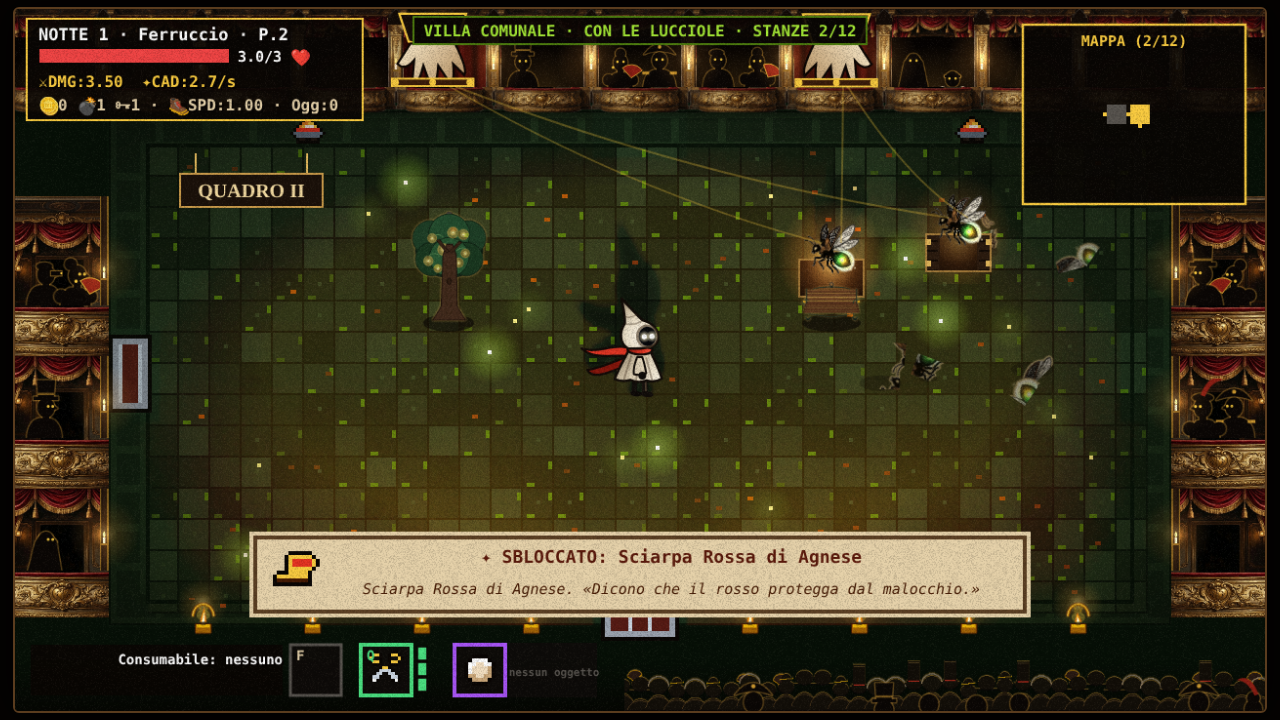
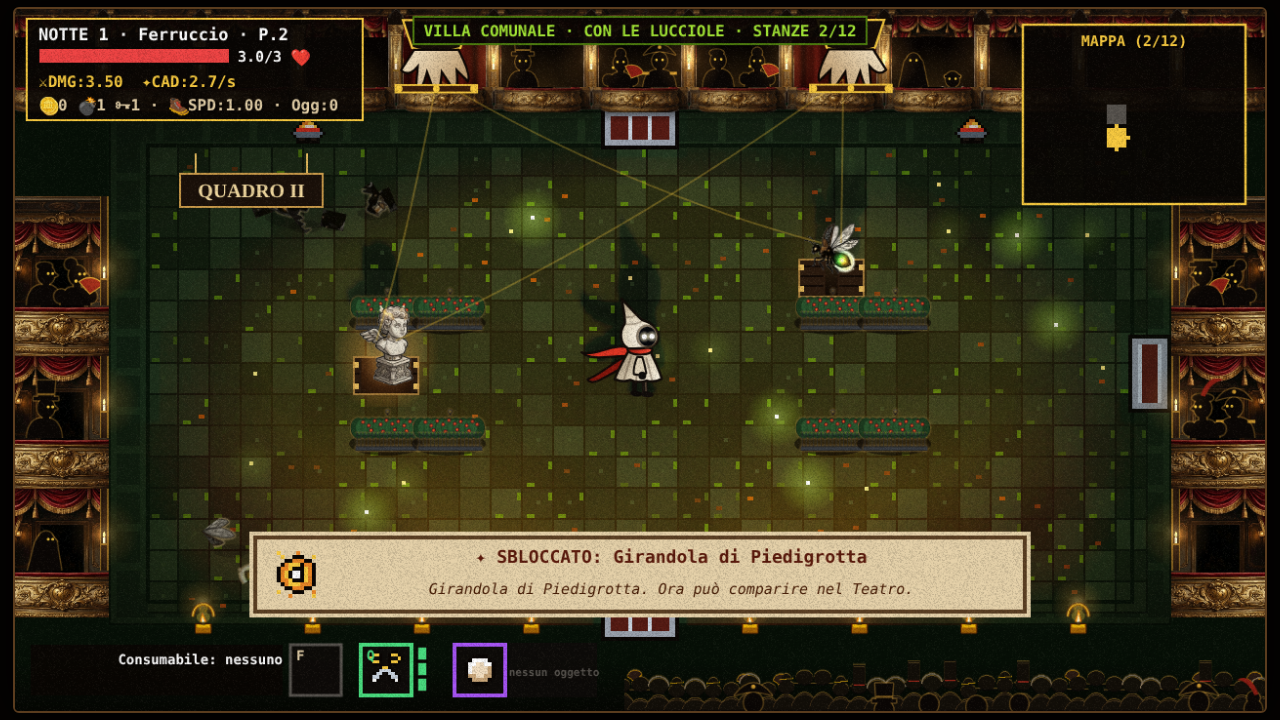
feat(teatro): telo dipinto che cala e risale nel cambio di scena, sagome degli arredi col contorno, disposizione del secondo quadro salvata (d5)
Claude-Session: https://claude.ai/code/session_01F5x6kDAQ4qaiYDiFx9jQb5

diff --git a/gioco/teatro/d5-cambio-scena.js b/gioco/teatro/d5-cambio-scena.js
@@ -27,8 +27,11 @@ const QUADRI_D5 = Object.freeze({
   profonditaMin: 2,            // stanze ad almeno 2 porte dall'ingresso
   nemiciMin: 2,
   pausaPrimaMs: 450,           // dall'ultimo nemico caduto al colpo di grancassa
-  cambioMs: 1500,              // durata del cambio dei macchinisti
-  fasi: Object.freeze({ buio: 0.18, giu: 0.5, su: 0.82 }), // frazioni del cambio: luci giù, arredi giù, arredi su
+  cambioMs: 1700,              // durata del cambio dei macchinisti
+  // frazioni del cambio: luci giù e arredi che scendono (buio → scesi), scambio a telo calato (giu),
+  // arredi nuovi che salgono mentre il telo risale (salita → su)
+  fasi: Object.freeze({ buio: 0.08, scesi: 0.33, giu: 0.42, salita: 0.62, su: 0.88 }),
+  telo: Object.freeze({ calaFine: 0.36, risaleInizio: 0.6, risaleFine: 0.95, margine: 22 }),
   buioMax: 0.72,
   margineGiocatore: 14,        // distanza minima di Ferruccio da un arredo che sale
   ascesaSfasaMs: 170,          // la seconda compagnia sale a una botola per volta
@@ -210,19 +213,32 @@ function avviaCambioD5(st) {
   const q = st.quadriD5;
   q.pausa = ticksDaMs(QUADRI_D5.pausaPrimaMs);
   q.durata = Math.max(1, ticksDaMs(QUADRI_D5.cambioMs));
-  q.colpo = q.giu = q.su = q.montato = false;
+  q.colpo = q.giu = q.su = q.montato = q.salitaSuono = false;
   statoRun.proiettili = []; statoRun.proiettiliNemici = [];
+}
+/**
+ * Variante b7 del secondo quadro: quella scelta alla generazione (in memoria o, dopo un caricamento, ritrovata
+ * dagli id salvati in `st.quadriD5.disp2`); solo se manca del tutto se ne estrae una nuova e la si salva.
+ */
+function varianteSecondoQuadroD5(st, piano) {
+  const q = st.quadriD5;
+  let v = variantiD5.get(st);
+  if (!v && q.disp2 && typeof variantiB7 === 'function') {
+    v = variantiB7().find((x) => x.id === q.disp2.variante && x.disp.id === q.disp2.id) || null;
+  }
+  if (!v) v = scegliVarianteB7(piano);
+  if (v) { variantiD5.set(st, v); q.disp2 = { id: v.disp.id, variante: v.id, nome: v.disp.nome }; }
+  return v;
 }
 function fuoriDagliArrediD5(o, x, y, margine) { return Math.hypot(x - o.x, y - o.y) >= (o.r || 0) + margine; }
 /** Prepara il secondo quadro su una stanza d'appoggio: arredi, suolo, comparse, alcova; sposta Ferruccio e gli oggetti. */
 function montaSecondoQuadroD5(st) {
   const q = st.quadriD5, piano = q.piano || statoRun.piano;
-  const v2 = variantiD5.get(st) || scegliVarianteB7(piano);
+  const v2 = varianteSecondoQuadroD5(st, piano);
   const temp = { id: st.id, tipo: 'normale', porte: st.porte, muroSegreto: st.muroSegreto, nemici: [], ostacoli: [], oggettiATerra: [] };
   if (v2) applicaDisposizioneB7(temp, v2, piano);
   q.nuovi = temp.ostacoli || [];
   q.suolo2 = temp.suoloB7 || []; q.comparse2 = temp.comparseB7 || []; q.fragili2 = temp.fragiliB7 || []; q.premi2 = temp.premiB7 || [];
-  if (v2) q.disp2 = { id: v2.disp.id, variante: v2.id, nome: v2.disp.nome };
   const M = QUADRI_D5.margineGiocatore;
   if (!q.nuovi.every((o) => fuoriDagliArrediD5(o, player.x, player.y, M + 9))) {
     const p = puntoValidoB7(temp, player.x, player.y, [], []);
@@ -257,7 +273,8 @@ function passoCambioD5(st) {
     st.ostacoli = []; st.suoloB7 = []; st.fragiliB7 = []; st.premiB7 = [];
     suonoD5('argano');
   }
-  if (u >= F.giu && !q.montato) { montaSecondoQuadroD5(st); suonoD5('argano'); }
+  if (u >= F.giu && !q.montato) montaSecondoQuadroD5(st); // a telo calato: nessuno vede lo scambio
+  if (u >= F.salita && !q.salitaSuono) { q.salitaSuono = true; suonoD5('argano'); }
   if (u >= F.su && !q.su) {
     q.su = true;
     st.ostacoli = q.nuovi; st.suoloB7 = q.suolo2; st.comparseB7 = q.comparse2; st.fragiliB7 = q.fragili2; st.premiB7 = q.premi2;
@@ -430,7 +447,7 @@ function sagomaArredoD5(o, dy) {
   ctx.save();
   ctx.beginPath(); ctx.rect(o.x - w, 0, w * 2, base + 1); ctx.clip();
   ctx.translate(0, dy);
-  ctx.fillStyle = '#120b06'; ctx.strokeStyle = BOTOLE_D5.colori.contorno; ctx.lineWidth = 1.2;
+  ctx.fillStyle = '#1a110a'; ctx.strokeStyle = BOTOLE_D5.colori.contorno; ctx.lineWidth = 1.6;
   if (o.tipo === 'braciere') {
     ctx.beginPath(); ctx.moveTo(o.x - w / 2, base - h * 0.55); ctx.lineTo(o.x + w / 2, base - h * 0.55);
     ctx.lineTo(o.x + w * 0.2, base - h * 0.25); ctx.lineTo(o.x + w * 0.12, base); ctx.lineTo(o.x - w * 0.12, base);
@@ -451,21 +468,56 @@ function buioCambioD5(u) {
   return M * Math.max(0, 1 - (u - F.su) / (1 - F.su));
 }
 
-/** Telo dipinto del fondale (sagome della scena) all'altezza `dy` (negativo = issato). */
-function disegnaFondaleD5(id, dy) {
-  const x1 = ARENA.x1, x2 = ARENA.x2, H = QUADRI_D5.altezzaFondale, y0 = ARENA.y1 - H + dy;
+/**
+ * Telo dipinto che cala dall'alto su tutta l'area di gioco, appeso a due corde, con la stanga in fondo e il motivo
+ * del quartiere a ombre. `yb` = quota (coordinate 640x360) del bordo basso del telo.
+ */
+function disegnaTeloD5(yb, tk) {
+  if (yb <= 0) return;
+  const M = QUADRI_D5.telo.margine, x1 = ARENA.x1 - M, x2 = ARENA.x2 + M, w = x2 - x1, C = BOTOLE_D5.colori;
+  const quart = typeof quartiereB7 === 'function' ? quartiereB7(statoRun.piano) : 1;
+  const ondeggia = Math.sin(tk * 0.09) * 1.5;
   ctx.save();
-  ctx.fillStyle = '#1a100a'; ctx.fillRect(x1, y0, x2 - x1, H);
-  ctx.strokeStyle = BOTOLE_D5.colori.contorno; ctx.lineWidth = 1; ctx.strokeRect(x1 + 0.5, y0 + 0.5, x2 - x1 - 1, H - 1);
-  ctx.fillStyle = '#060403';
-  let seme = 0; for (const ch of String(id || '')) seme = (seme * 31 + ch.charCodeAt(0)) % 997;
-  if (seme % 2) { // il Vesuvio col pennacchio
-    ctx.beginPath(); ctx.moveTo(x1 + 30, y0 + H); ctx.lineTo((x1 + x2) / 2 - 20, y0 + 14); ctx.lineTo((x1 + x2) / 2 + 20, y0 + 14); ctx.lineTo(x2 - 30, y0 + H); ctx.fill();
-  } else { // archi e cupole
-    for (let x = x1 + 20; x < x2 - 20; x += 54) { ctx.beginPath(); ctx.arc(x + 20, y0 + H, 20, Math.PI, 0); ctx.rect(x, y0 + H - 4, 40, 4); ctx.fill(); }
+  ctx.fillStyle = '#e2b85c'; // le due corde
+  ctx.fillRect(x1 + 26, 0, 1, yb); ctx.fillRect(x2 - 27, 0, 1, yb);
+  ctx.fillStyle = '#1d130b'; ctx.fillRect(x1, 0, w, yb);
+  ctx.fillStyle = 'rgba(0,0,0,0.28)'; // pieghe della tela
+  for (let x = x1 + 18; x < x2; x += 38) ctx.fillRect(x + ondeggia, 0, 9, yb);
+  ctx.beginPath(); ctx.rect(x1, 0, w, yb); ctx.clip();
+  const cy = yb - 70, cx = (x1 + x2) / 2; // il dipinto viaggia col telo
+  ctx.fillStyle = '#080504'; ctx.strokeStyle = C.contorno; ctx.lineWidth = 1.2;
+  ctx.beginPath();
+  if (quart === 1) { // il Vesuvio col pennacchio, sopra il golfo
+    ctx.moveTo(x1 + 20, cy + 50); ctx.lineTo(cx - 34, cy - 40); ctx.lineTo(cx - 8, cy - 32); ctx.lineTo(cx + 22, cy - 44); ctx.lineTo(x2 - 20, cy + 50); ctx.closePath();
+  } else if (quart === 2) { // gli alberi della Villa
+    for (let x = x1 + 40; x < x2 - 30; x += 70) { ctx.moveTo(x + 18, cy + 50); ctx.arc(x + 18, cy - 4, 26, 0, Math.PI * 2); ctx.rect(x + 14, cy + 10, 8, 40); }
+  } else if (quart === 3) { // cupole e campanili
+    for (let x = x1 + 30; x < x2 - 40; x += 90) { ctx.moveTo(x + 60, cy + 50); ctx.arc(x + 30, cy + 10, 30, Math.PI, 0); ctx.rect(x, cy + 10, 60, 40); ctx.rect(x + 70, cy - 30, 12, 80); }
+  } else { // il colonnato della Reggia
+    ctx.rect(x1 + 20, cy - 34, w - 40, 10);
+    for (let x = x1 + 30; x < x2 - 30; x += 34) ctx.rect(x, cy - 24, 10, 74);
   }
-  ctx.fillStyle = '#3a2410'; ctx.fillRect(x1 - 6, y0 - 3, x2 - x1 + 12, 4); // la stanga
+  ctx.fill(); ctx.stroke();
+  ctx.fillStyle = 'rgba(226,184,92,0.5)'; ctx.font = 'bold 13px Georgia, serif'; ctx.textAlign = 'center'; ctx.textBaseline = 'middle';
+  ctx.fillText('~ cambio di scena ~', cx, yb - 12);
   ctx.restore();
+  ctx.save();
+  ctx.strokeStyle = C.contorno; ctx.lineWidth = 1; ctx.strokeRect(x1 + 0.5, -1, w - 1, yb + 1);
+  ctx.fillStyle = '#4a2e14'; ctx.fillRect(x1 - 6, yb - 2, w + 12, 6); // la stanga
+  ctx.fillStyle = '#e2b85c'; ctx.fillRect(x1 - 6, yb - 2, 4, 6); ctx.fillRect(x2 + 2, yb - 2, 4, 6);
+  ctx.fillStyle = 'rgba(0,0,0,0.35)'; ctx.fillRect(x1, yb + 4, w, 6); // ombra sul palco
+  ctx.restore();
+}
+
+/** Quota del bordo basso del telo al tempo `u` del cambio. */
+function quotaTeloD5(u) {
+  const T = QUADRI_D5.telo, giu = ARENA.y2 + 16;
+  const liscio = (x) => x * x * (3 - 2 * x);
+  if (u <= 0) return 0;
+  if (u < T.calaFine) return giu * liscio(u / T.calaFine);
+  if (u < T.risaleInizio) return giu;
+  if (u < T.risaleFine) return giu * (1 - liscio((u - T.risaleInizio) / (T.risaleFine - T.risaleInizio)));
+  return 0;
 }
 
 /** Due fondali arrotolati sotto il cielo del palco: il segno onesto di una stanza in due quadri. */
@@ -513,51 +565,49 @@ function disegnaScenaD5(tk, st) {
   else if (q.fase === 'secondo' || q.fase === 'finito') disegnaCartelloD5('QUADRO II', q.cartello > 0);
 }
 
-/** Il cambio di scena, disegnato a fine frame sopra scena, figure e luci (sotto resta solo l'HUD ridisegnato). */
+/**
+ * Il cambio di scena: buio, botole e sagome degli arredi, telo che cala e risale, Ferruccio davanti nel suo occhio
+ * di bue. Disegnato appena prima dell'HUD: sopra pavimento, arredi e nemici, sotto HUD e banner.
+ */
 function disegnaCambioD5(tk, st) {
-  const q = st.quadriD5;
-  const F = QUADRI_D5.fasi, u = (q.t - (q.pausa || 0)) / (q.durata || 1), H = QUADRI_D5.altezzaFondale + 30;
+  const q = st.quadriD5, F = QUADRI_D5.fasi, u = (q.t - (q.pausa || 0)) / (q.durata || 1);
   ctx.save();
   ctx.fillStyle = `rgba(0,0,0,${buioCambioD5(u).toFixed(3)})`;
-  ctx.fillRect(0, 0, ARENA.x2 + ARENA.x1, ARENA.y2 + 24);
-  const P = player, lu = buioCambioD5(u) / QUADRI_D5.buioMax; // un occhio di bue resta su Ferruccio
-  ctx.globalAlpha = 0.55 * lu; ctx.globalCompositeOperation = 'lighter';
-  ctx.drawImage(alonaD5(), P.x - 40, P.y - 56, 80, 80);
+  ctx.fillRect(0, 0, W, H);
   ctx.restore();
   if (u >= F.buio && u < F.giu) {
-    const s = (u - F.buio) / (F.giu - F.buio);
-    disegnaFondaleD5(st.disposizioneB7 && st.disposizioneB7.id, -s * H);
+    const s = Math.min(1, (u - F.buio) / (F.scesi - F.buio));
     for (const o of q.vecchi || []) {
       disegnaBotolaD5(o.x, o.y + (o.h || 20) * 0.3, (o.w || 24) + 10, 14, Math.min(1, s * 3), 0, tk);
-      sagomaArredoD5(o, s * ((o.h || 24) + 34));
+      if (s < 1) sagomaArredoD5(o, s * ((o.h || 24) + 34));
     }
-  } else if (u >= F.giu && u < 1) {
-    const s = Math.min(1, (u - F.giu) / (F.su - F.giu));
-    disegnaFondaleD5(q.disp2 && q.disp2.id, -(1 - s) * H);
+  } else if (u >= F.salita && u < 1) {
+    const s = Math.min(1, (u - F.salita) / (F.su - F.salita));
     const chiusura = u < F.su ? 1 : Math.max(0, 1 - (u - F.su) / (1 - F.su));
     for (const o of q.nuovi || []) {
       disegnaBotolaD5(o.x, o.y + (o.h || 20) * 0.3, (o.w || 24) + 10, 14, chiusura, 0, tk);
       if (u < F.su) sagomaArredoD5(o, (1 - s) * ((o.h || 24) + 34));
     }
-  } else if (u < F.buio) {
-    disegnaRotoliD5();
   }
+  disegnaTeloD5(quotaTeloD5(u), tk);
+  const P = player, lu = buioCambioD5(u) / QUADRI_D5.buioMax;
+  ctx.save();
+  ctx.globalAlpha = 0.6 * lu; ctx.globalCompositeOperation = 'lighter';
+  ctx.drawImage(alonaD5(), P.x - 44, P.y - 60, 88, 88);
+  ctx.restore();
+  try { // Ferruccio resta davanti al telo
+    disegnaFerruccioPittorico(ctx, P.x, P.y, { scale: 1.0, scalaA2: P.scalaA2, flipX: P.flipX, tick: tk, moving: P.moving, shootAnim: false, pickup: false, flash: false });
+  } catch (_) { /* il disegno non ferma la scena */ }
   disegnaCartelloD5('CAMBIO DI SCENA', false);
 }
 
-const disegnaFrameBaseD5 = disegnaFrame;
-disegnaFrame = function disegnaFrameD5(...a) {
-  const r = disegnaFrameBaseD5.apply(this, a);
+const disegnaHUDPixelArtBaseD5 = disegnaHUDPixelArt;
+disegnaHUDPixelArt = function disegnaHUDPixelArtD5(st, ...resto) {
   try {
-    const st = statoRun.stanzaCorrente;
-    if (st && st.quadriD5 && st.quadriD5.fase === 'cambio' && statoRun.fase === 'in_gioco') {
-      ctx.save();
-      ctx.setTransform(scalaBase, 0, 0, scalaBase, 0, 0);
-      disegnaCambioD5(tick, st);
-      ctx.restore();
-    }
+    const sc = statoRun.stanzaCorrente;
+    if (sc && sc.quadriD5 && sc.quadriD5.fase === 'cambio' && statoRun.fase === 'in_gioco') disegnaCambioD5(tick, sc);
   } catch (err) { console.error('[d5] cambio', err); }
-  return r;
+  return disegnaHUDPixelArtBaseD5.call(this, st, ...resto);
 };
 
 const disegnaStanzaPixelArtBaseD5 = disegnaStanzaPixelArt;

diff --git a/tools/qa-teatro-cambio-scena.js b/tools/qa-teatro-cambio-scena.js
@@ -78,12 +78,15 @@ fs.mkdirSync(path.dirname(foto('x')), { recursive: true });
     return { fatto, fase: st.quadriD5 && st.quadriD5.fase, nemici: st.nemici.length, arredi: window.__qa.arredi() };
   });
   ok('stanza forzata in due quadri, fase «primo»', ing.fatto && ing.fase === 'primo', ing);
+  ing.disp2 = await p.evaluate(() => JSON.parse(JSON.stringify(window.__qa.st.quadriD5.disp2)));
+  ok('la disposizione del secondo quadro è nello stato (JSON) della stanza', ing.disp2 && ing.disp2.id && ing.disp2.variante !== undefined, ing.disp2);
   await p.waitForTimeout(500);
   await p.screenshot({ path: foto('1-quadro-primo') });
   const avvio = await p.evaluate(() => {
     const I = window.__teatro.interni, st = window.__qa.st, R = I.statoRun;
     for (const n of st.nemici) n.hp = 0;
     verificaStanzaPulita();
+    if (st.quadriD5.fase === 'cambio') st.quadriD5.durata *= 6; // al rallentatore: le foto cadono dove devono
     // Ferruccio in mezzo alla scena: dove salirà un arredo deve essere spostato
     I.player.x = 320; I.player.y = 188;
     R.proiettiliNemici.push({ x: 0, y: 0, vx: 0, vy: 0 });
@@ -91,9 +94,12 @@ fs.mkdirSync(path.dirname(foto('x')), { recursive: true });
   });
   ok('primo quadro finito: porte chiuse (stanza non pulita), parte il cambio', !avvio.pulita && avvio.fase === 'cambio', avvio);
   const campioni = [];
-  for (const [i, ms] of [[1, 380], [2, 400], [3, 350], [4, 350], [5, 300]].entries()) {
-    await p.waitForTimeout(ms[1]);
-    await p.screenshot({ path: foto(`2-cambio-${ms[0]}`) });
+  for (const [nome, frazione] of [['1-quarto', 0.25], ['2-meta', 0.5], ['3-tre-quarti', 0.75], ['4-fine', 0.97]]) {
+    await p.waitForFunction((f) => {
+      const q = window.__qa.st.quadriD5;
+      return q.fase !== 'cambio' || (q.t - q.pausa) / q.durata >= f;
+    }, frazione, { timeout: 5000 });
+    await p.screenshot({ path: foto(`2-cambio-${nome}`) });
     campioni.push(await p.evaluate(() => {
       const I = window.__teatro.interni, R = I.statoRun, st = window.__qa.st;
       const hp = R.hpHalf; R.graziaIngressoC = 0;
@@ -102,12 +108,12 @@ fs.mkdirSync(path.dirname(foto('x')), { recursive: true });
       R.graziaIngressoC = 1e7;
       return { fase: st.quadriD5.fase, dentro: window.__qa.dentro(), pnem: R.proiettiliNemici.length, ricevuto, pulita: st.pulita };
     }));
-    void i;
   }
   ok('durante il cambio nessun danno e nessun proiettile nemico', campioni.every((c) => c.ricevuto !== true && (c.fase !== 'cambio' || c.pnem === 0)), campioni);
   ok('Ferruccio mai dentro un arredo', campioni.every((c) => !c.dentro), campioni);
   ok('porte chiuse per tutto il cambio', campioni.every((c) => !c.pulita), campioni);
-  await p.waitForTimeout(2200);
+  await p.waitForFunction(() => window.__qa.st.quadriD5.fase === 'secondo' && !window.__teatro.interni.d5.inAttesaBotole(window.__qa.st), null, { timeout: 15000 });
+  await p.waitForTimeout(300);
   await p.screenshot({ path: foto('3-quadro-secondo') });
   const sec = await p.evaluate(() => {
     const st = window.__qa.st;
@@ -115,6 +121,8 @@ fs.mkdirSync(path.dirname(foto('x')), { recursive: true });
   });
   ok('secondo quadro: entra la seconda compagnia', sec.fase === 'secondo' && sec.nemici > 0 && !sec.attesa && !sec.pulita, sec);
   ok('gli arredi sono cambiati', sec.arredi !== ing.arredi, { prima: ing.arredi, dopo: sec.arredi });
+  const d2 = await p.evaluate(() => window.__qa.st.disposizioneB7 && window.__qa.st.disposizioneB7.id);
+  ok('il secondo quadro usa la disposizione salvata', d2 === ing.disp2.id, { d2, salvata: ing.disp2 });
   ok('Ferruccio fuori dagli arredi nuovi', !sec.dentro);
   const fine = await p.evaluate(() => {
     const st = window.__qa.st, prima = st.oggettiATerra.length;
@@ -163,16 +171,17 @@ fs.mkdirSync(path.dirname(foto('x')), { recursive: true });
     return { fatto, prima, dopo: st.nemici.length, attesa: I.d5.inAttesaBotole(st), botole: st.botoleD5.lista.length };
   });
   ok('botole: i nemici aspettano sotto il palco', bot.fatto && bot.dopo < bot.prima && bot.attesa, bot);
-  await p.waitForTimeout(900);
+  const stato = (x) => p.waitForFunction((x) => window.__qa.sb.botoleD5.lista.some((b) => b.stato === x), x, { timeout: 6000 });
+  await stato('trema');
   await p.screenshot({ path: foto('6-botola-trema') });
-  await p.waitForTimeout(650);
-  await p.screenshot({ path: foto('7-botola-ascesa') });
+  await p.waitForFunction(() => window.__qa.sb.botoleD5.lista.some((b) => b.stato === 'ascesa' && b.t > 12), null, { timeout: 6000 });
   const asc = await p.evaluate(() => {
     const st = window.__qa.sb, b = st.botoleD5.lista.find((x) => x.stato === 'ascesa');
     return { ascesa: Boolean(b), fuori: b ? st.nemici.indexOf(b.nemico) < 0 && Boolean(b.nemico) : null };
   });
+  await p.screenshot({ path: foto('7-botola-ascesa') });
   ok('un nemico sale dalla botola e intanto non è in scena (né colpisce né è colpibile)', asc.ascesa && asc.fuori, asc);
-  await p.waitForTimeout(800);
+  await stato('aperta');
   const buco = await p.evaluate(async () => {
     const I = window.__teatro.interni, st = window.__qa.sb, P = I.player;
     const b = st.botoleD5.lista.find((x) => x.stato === 'aperta');
